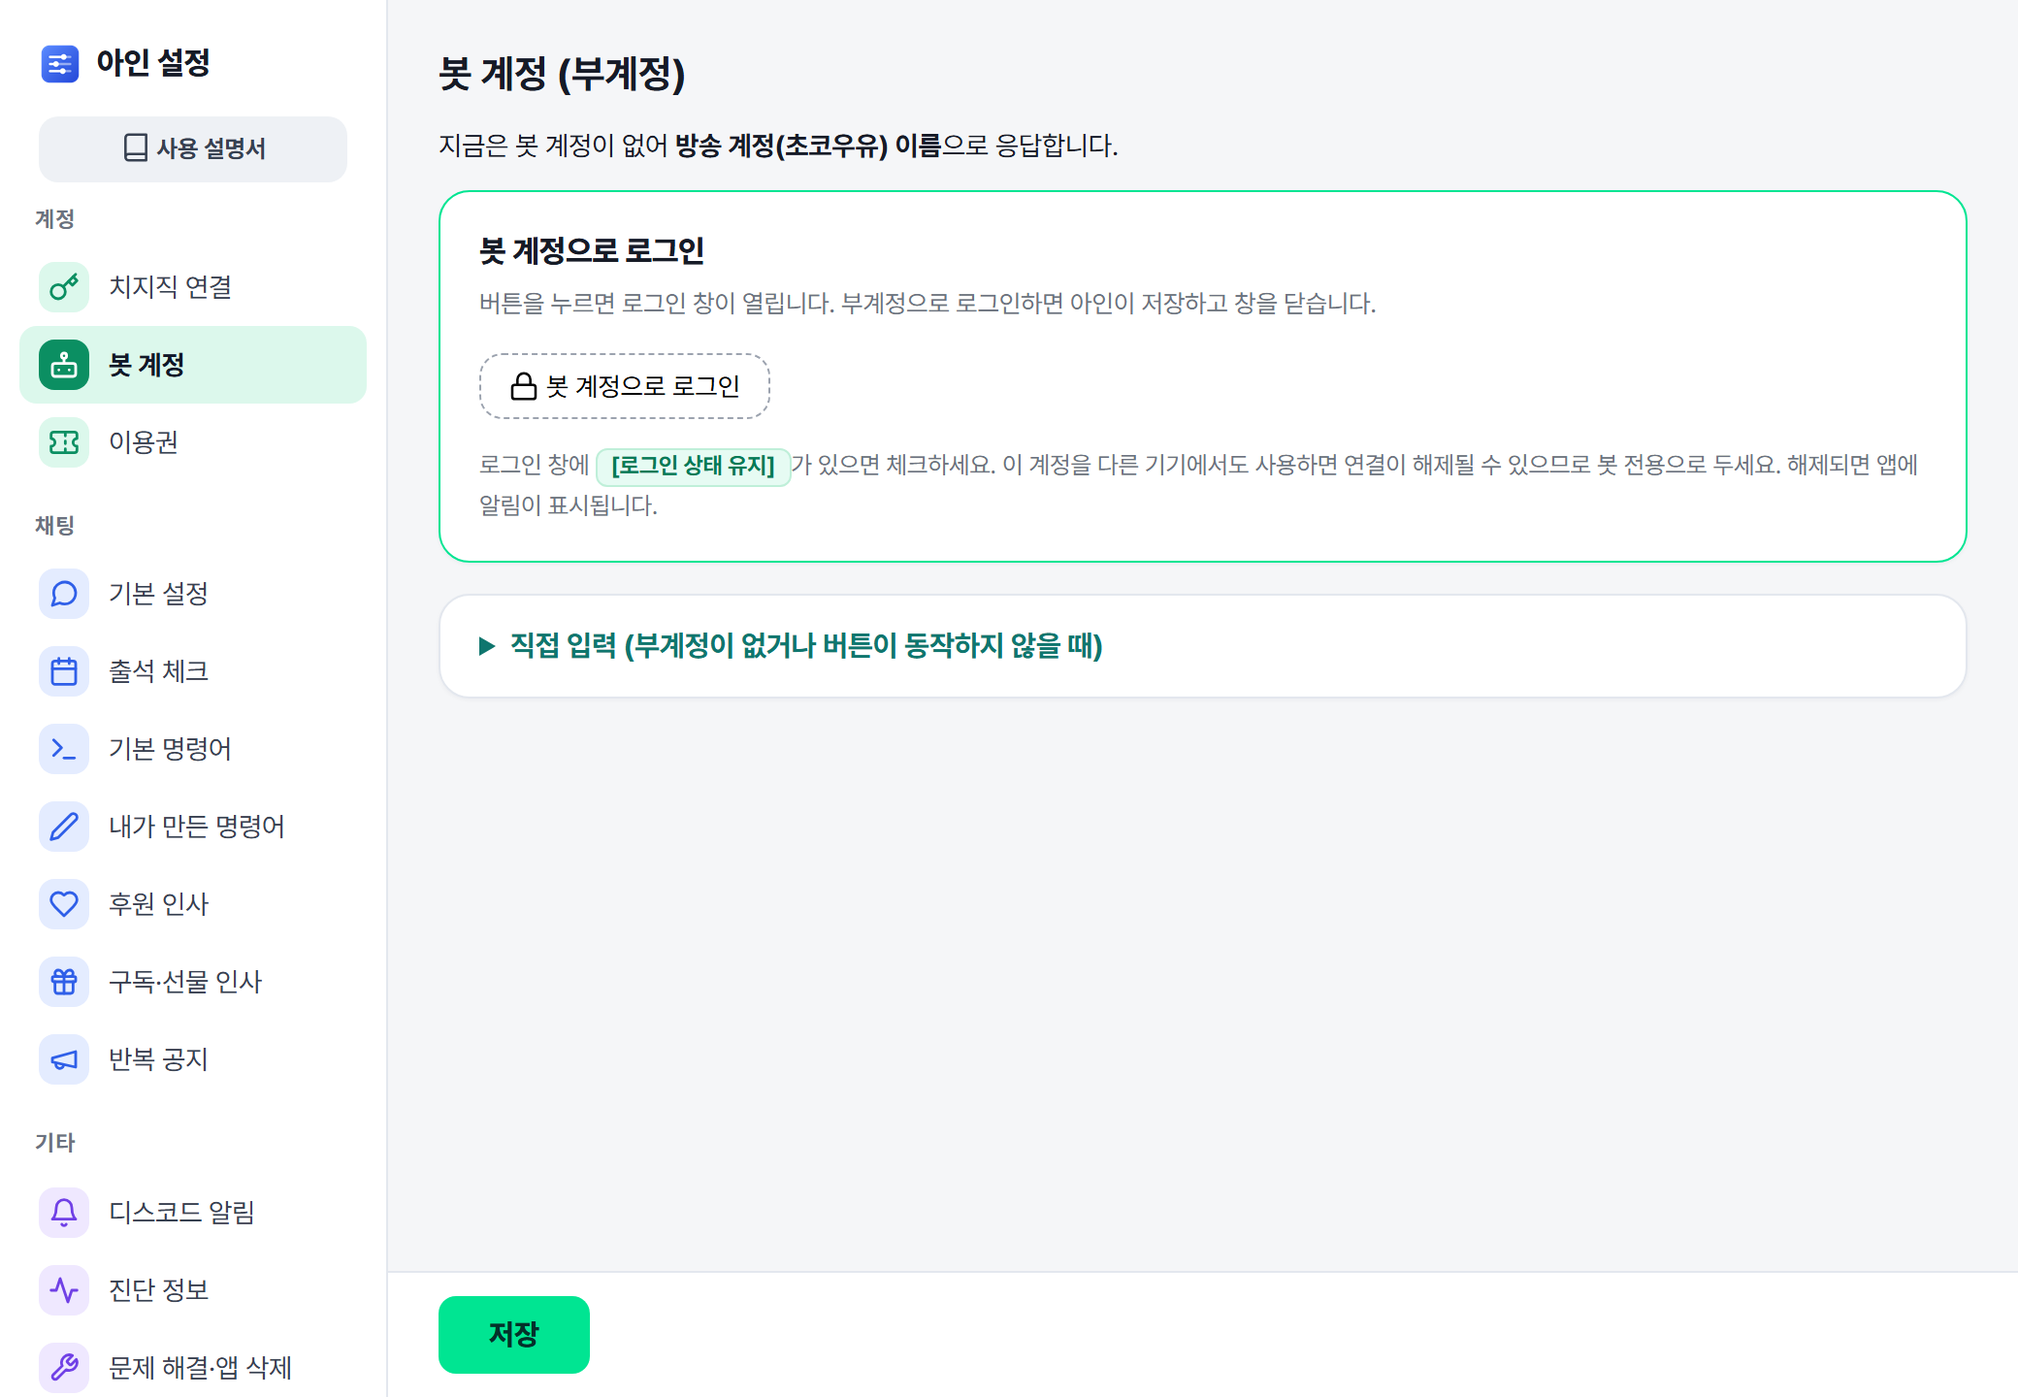
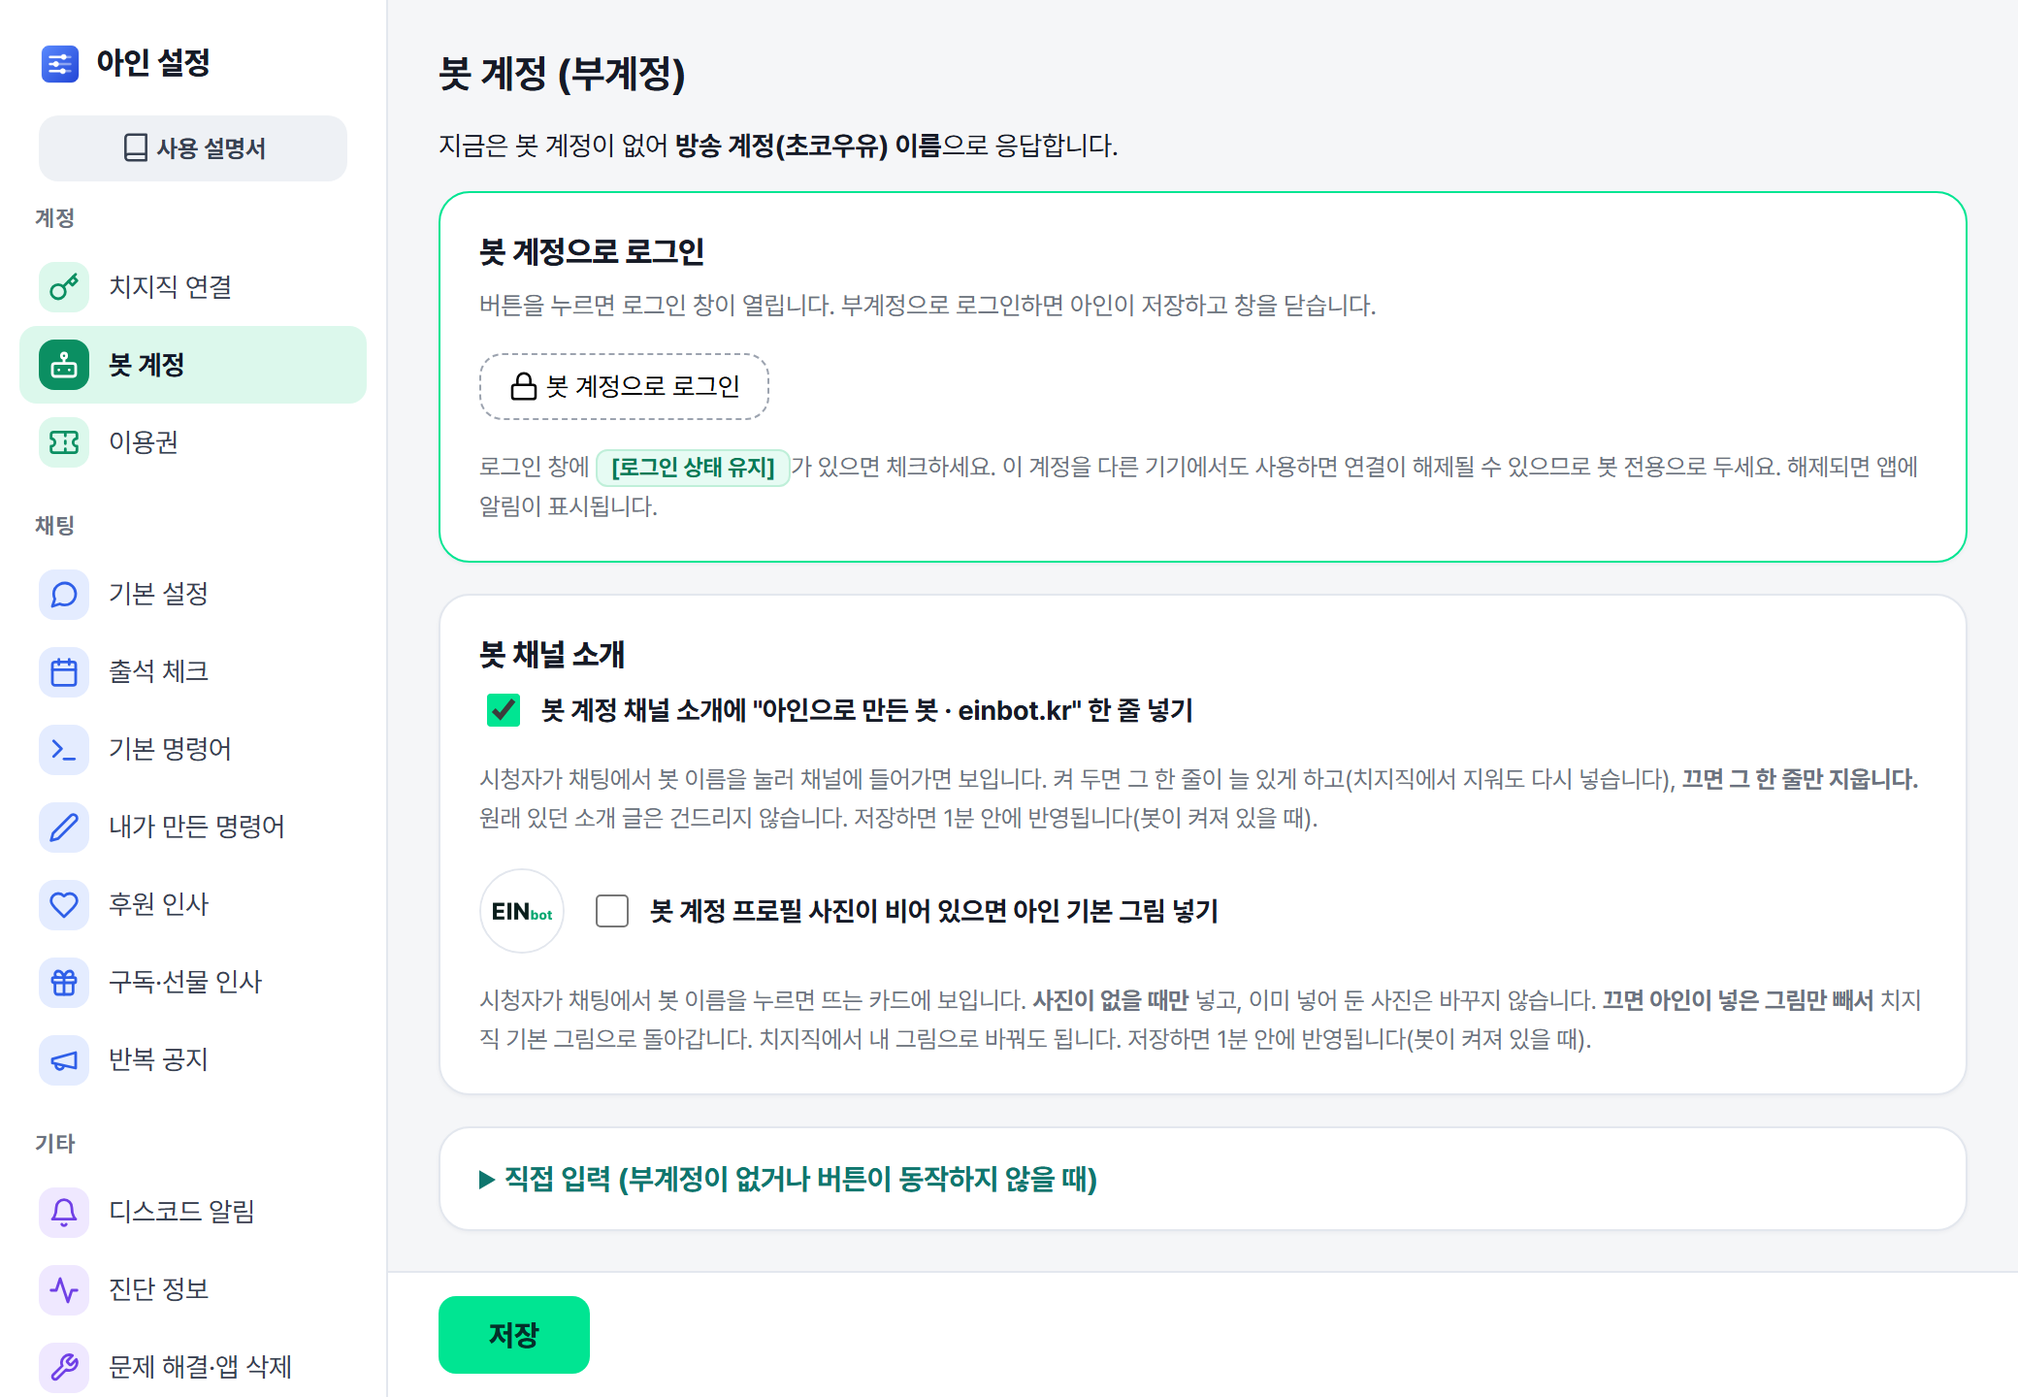
2.3.1 반영 준비: 봇 계정 기본 그림 — 설치 가이드, 문제 해결, 개인정보처리방침, 업데이트 기록
- 날짜는 게시 뒤에 채운다 (%게시일%, %ISO%)
- 설정 창 봇 계정 그림을 새 화면으로 교체, 기본 그림(img/bot-icon.png) 추가

diff --git a/privacy.html b/privacy.html
@@ -45,7 +45,7 @@
   </header>
 
   <h1>개인정보처리방침</h1>
-  <p class="updated">시행일: 2026년 8월 27일 · 2026년 9월 21일 개정(1항에 기능 창 설정, 3항에 글꼴 CDN·TITS 연동 항목 추가) · 2026년 9월 23일 개정(1항에 디스코드 웹훅 주소·연결 계정 이름, 3항에 디스코드 연결 항목 추가) · 2026년 9월 25일 개정(1항에 신청곡 대기열·재생 기록, 3항에 유튜브 항목 추가) · 2026년 9월 26일 개정(2항 최초 실행 신호에 초기 설정 진행 단계 추가, 2.1.1부터) · 2026년 9월 27일 개정(2항 진단 정보에 봇을 켜 둔 시간과 끈 까닭 추가, 3항에 Microsoft Store 항목 추가, 2.2부터) · 2026년 9월 27일 개정(1항에 봇 계정 채널 ID와 채널 소개 확인 기록, 3항 치지직에 봇 계정 채널 소개 한 줄 추가, 2.2.5부터) · 2026년 9월 27일 개정(2항에 치지직 로그인·갱신 때 운영자 서버를 거치는 것 추가, 요약·1항·3항 표현 고침, 2.3부터)</p>
+  <p class="updated">시행일: 2026년 8월 27일 · 2026년 9월 21일 개정(1항에 기능 창 설정, 3항에 글꼴 CDN·TITS 연동 항목 추가) · 2026년 9월 23일 개정(1항에 디스코드 웹훅 주소·연결 계정 이름, 3항에 디스코드 연결 항목 추가) · 2026년 9월 25일 개정(1항에 신청곡 대기열·재생 기록, 3항에 유튜브 항목 추가) · 2026년 9월 26일 개정(2항 최초 실행 신호에 초기 설정 진행 단계 추가, 2.1.1부터) · 2026년 9월 27일 개정(2항 진단 정보에 봇을 켜 둔 시간과 끈 까닭 추가, 3항에 Microsoft Store 항목 추가, 2.2부터) · 2026년 9월 27일 개정(1항에 봇 계정 채널 ID와 채널 소개 확인 기록, 3항 치지직에 봇 계정 채널 소개 한 줄 추가, 2.2.5부터) · 2026년 9월 27일 개정(2항에 치지직 로그인·갱신 때 운영자 서버를 거치는 것 추가, 요약·1항·3항 표현 고침, 2.3부터) · %게시일% 개정(1항에 봇 계정 기본 그림 확인 기록, 3항 치지직에 봇 계정 기본 그림 추가, 2.3.1부터)</p>
 
   <p>아인(이하 "프로그램")은 이용자의 개인정보를 소중히 다룹니다. 이 방침은 프로그램과
      운영자가 어떤 정보를 어떻게 처리하는지 설명합니다.</p>
@@ -73,6 +73,7 @@
     <li>설정 창에 "지금 연결된 계정"을 보여 주기 위한 방송 계정의 채널 이름·채널 ID와 봇 계정의 닉네임 (1.9.3)</li>
     <li>신청곡을 켠 경우 신청곡 대기열과 최근 재생 기록(유튜브 영상 ID·제목·채널 이름, 신청한 시청자의 닉네임·채널 ID, 신청 시각. 재생 기록은 최근 100곡까지) (2.1)</li>
     <li>봇 계정을 쓰는 경우 봇 계정의 채널 ID와, 채널 소개 한 줄을 마지막으로 확인한 시각·결과 (2.2.5)</li>
+    <li>봇 계정 기본 그림을 켠 경우 봇 계정의 채널 ID, 아인이 넣은 프로필 사진의 주소, 마지막으로 확인한 시각·결과 (2.3.1)</li>
   </ul>
   <p class="muted">이 정보들은 이용자가 프로그램을 삭제하면 함께 제거됩니다(이용권 관련 최소 기록은 예외 — 아래 4항 참고).</p>
 
@@ -101,7 +102,8 @@
   <h2>3. 제3자 서비스</h2>
   <ul>
     <li><strong>치지직(네이버)</strong>: 프로그램은 이용자를 대신해 치지직 공식 API에 연결하여 채팅·후원·구독 정보를 주고받습니다. 이는 이용자가 직접 로그인·동의한 범위 내에서 이루어집니다. 2.3부터는 운영자가 치지직 개발자 센터에 등록한 앱 "아인"으로 로그인하며, 동의 화면에 요청하는 권한이 표시됩니다(방송 스트림키는 요청하지 않습니다).
-        봇 계정(부계정)을 쓰는 경우에는 그 계정으로 채팅을 보내고, 그 계정의 치지직 채널 소개에 "아인으로 만든 봇 · einbot.kr" 한 줄을 넣습니다. 원래 소개 글과 닉네임·프로필 사진 등 다른 채널 설정은 바꾸지 않고, 방송 계정의 채널 소개는 건드리지 않습니다. 설정 → 봇 계정에서 끄면 그 한 줄만 지웁니다. (2.2.5)</li>
+        봇 계정(부계정)을 쓰는 경우에는 그 계정으로 채팅을 보내고, 그 계정의 치지직 채널 소개에 "아인으로 만든 봇 · einbot.kr" 한 줄을 넣습니다. 원래 소개 글과 닉네임 등 다른 채널 설정은 바꾸지 않고, 방송 계정의 채널 소개는 건드리지 않습니다. 설정 → 봇 계정에서 끄면 그 한 줄만 지웁니다. (2.2.5)
+        2.3.1부터는 봇 계정을 새로 연결하면, 그 계정에 프로필 사진이 없을 때 아인 기본 그림 파일을 치지직에 올려 프로필 사진으로 넣습니다. 이미 있는 사진은 바꾸지 않고, 방송 계정의 사진은 건드리지 않습니다. 설정 → 봇 계정에서 끄면 아인이 넣은 그림만 뺍니다. 2.3.0까지 봇 계정을 연결해 쓰던 경우에는 직접 켜야 동작합니다.</li>
     <li><strong>Cloudflare</strong>: 이용권 확인 서버와 웹사이트 운영에 사용됩니다.</li>
     <li><strong>Microsoft Store</strong>: 스토어판 아인은 새 버전을 확인하고 설치할 때 Windows의 Microsoft Store 앱 업데이트 기능과 스토어 공개 앱 정보(displaycatalog.mp.microsoft.com)를 이용합니다. 이 과정은 Windows와 Microsoft 계정의 개인정보처리방침을 따르며, 아인이 따로 덧붙여 보내는 정보는 없습니다. (2.2.3)</li>
     <li><strong>네이버 커머스(스마트스토어)</strong>: 주문번호로 결제 여부를 확인할 때 이용됩니다.</li>

diff --git a/guide/install/index.html b/guide/install/index.html
@@ -38,7 +38,7 @@
       "description": "Microsoft Store 설치부터 방송 계정 로그인, 봇 이름 설정, 봇 시작까지 치지직 채팅봇 아인을 붙이는 순서.",
       "inLanguage": "ko-KR",
       "datePublished": "2026-09-06",
-      "dateModified": "2026-09-27",
+      "dateModified": "%ISO%",
       "mainEntityOfPage": "https://einbot.kr/guide/install/",
       "image": "https://einbot.kr/og.png?v=2",
       "author": { "@id": "https://einbot.kr/#org" },
@@ -152,7 +152,7 @@
       <h1>치지직 채팅봇 설치 방법 — 아인 5분 설치 가이드</h1>
       <p class="lead">치지직 채팅봇 아인을 방송에 붙이는 순서입니다. 파일을 내려받거나 압축을 풀 일은 없고,
         방송하는 계정으로 한 번 로그인하면 됩니다. 2.3부터 치지직 개발자 센터에서 API 키를 발급받는 단계가 없어졌습니다.</p>
-      <p class="meta">기준 버전 2.3.0 · 2026년 9월 27일 갱신 · Windows 10·11</p>
+      <p class="meta">기준 버전 2.3.1 · %게시일% 갱신 · Windows 10·11</p>
 
       <div class="toc">
         <b>차례</b>
@@ -213,9 +213,12 @@
             <img src="/img/chzzk-profile-edit.png" alt="치지직 프로필 편집 창 — 닉네임 칸과 30일 변경 제한 안내" width="352" loading="lazy">
           </li>
           <li>연결은 <b>[봇 계정으로 로그인]</b> 버튼 하나입니다 (1.8). 초기 설정 2단계나 [설정] → 봇 계정에서 누르면 로그인 창이 열리고, 거기서 <b>부계정으로</b> 로그인하면 아인이 알아서 저장하고 창을 닫습니다. 예전처럼 브라우저 개발자 도구에서 쿠키를 복사할 필요가 없습니다. 봇이 돌아가는 동안 로그인이 자동으로 연장되어 매번 다시 하지 않아도 됩니다.
-            <img src="/img/bot-account.png?v=210925" alt="아인 설정 창의 봇 계정 화면 — [봇 계정으로 로그인] 버튼과 부계정 안내" width="1040" height="720" loading="lazy">
+            <img src="/img/bot-account.png?v=231" alt="아인 설정 창의 봇 계정 화면 — [봇 계정으로 로그인] 버튼, 봇 채널 소개 한 줄과 기본 그림 칸" width="1040" height="720" loading="lazy">
           </li>
           <li>연결하면 아인이 부계정의 치지직 채널 소개에 <b>"아인으로 만든 봇 · einbot.kr"</b> 한 줄을 넣습니다 (2.2.5). 시청자가 봇 이름을 눌러 봇 채널에 들어왔을 때 어떤 봇인지 알 수 있게 하려는 것입니다. 원래 소개 글은 그대로 두고, 원하지 않으면 설정 → 봇 계정 → 봇 채널 소개에서 끄면 그 한 줄만 지웁니다.</li>
+          <li>부계정을 새로 연결하면, 그 계정에 <b>프로필 사진이 없을 때</b> 아인 기본 그림을 넣습니다 (2.3.1). 시청자가 채팅에서 봇 이름을 누르면 뜨는 카드에 보이는 사진입니다. 이미 넣어 둔 사진은 바꾸지 않습니다. 봇에 내 그림을 쓰려면 부계정으로 치지직에 로그인해 프로필 사진을 바꾸면 되고, 아인 그림을 빼려면 설정 → 봇 계정 → 봇 채널 소개에서 끕니다. 2.3.0까지 이미 부계정을 연결해 쓰던 분은 바뀌지 않습니다.
+            <img src="/img/bot-icon.png" alt="아인 기본 그림 — 흰 바탕에 EINbot 글자" width="96" height="96" loading="lazy" style="border-radius:50%;border:1px solid var(--line)">
+          </li>
         </ul>
         <div class="warn">
           <p><b>부계정은 봇 전용으로 두세요.</b> 폰 등 다른 기기에서 같은 계정으로 로그인하면 봇 연결이 끊겨 다시 넣어야 할 수 있습니다.</p>

diff --git a/guide/troubleshooting/index.html b/guide/troubleshooting/index.html
@@ -45,7 +45,7 @@
       "description": "아인이 반응이 없거나, 권한이 빠졌다고 나오거나, 봇 계정 연결이 끊겼을 때 증상별 원인과 해결 순서.",
       "inLanguage": "ko-KR",
       "datePublished": "2026-09-09",
-      "dateModified": "2026-09-27",
+      "dateModified": "%ISO%",
       "mainEntityOfPage": "https://einbot.kr/guide/troubleshooting/",
       "image": "https://einbot.kr/og.png?v=2",
       "author": { "@id": "https://einbot.kr/#org" },
@@ -218,7 +218,7 @@
       <h1>치지직 채팅봇이 안 될 때 확인할 것</h1>
       <p class="lead">아인을 쓰다가 막히는 상황을 증상별로 모았습니다. 실제로 사용자들이 겪은 일과 그 원인을 기준으로 쓰며,
         대부분은 설정 화면에서 한두 번 클릭으로 해결됩니다. 해당 증상을 차례에서 골라 그 부분만 읽으세요.</p>
-      <p class="meta">기준 버전 2.3.0 · 2026년 9월 27일 갱신</p>
+      <p class="meta">기준 버전 2.3.1 · %게시일% 갱신</p>
 
       <div class="toc">
         <b>차례</b>
@@ -228,6 +228,7 @@
           <li><a href="#sub">후원 인사는 되는데 구독 인사만 안 나가요</a></li>
           <li><a href="#cookie">"봇 계정 연결 끊김" 알림이 떠요</a></li>
           <li><a href="#myname">봇 이름이 아니라 내 이름으로 대답해요</a></li>
+          <li><a href="#boticon">봇 계정 프로필 사진이 아인 그림으로 바뀌었어요</a></li>
           <li><a href="#gift">구독권 선물 인사가 안 나가요</a></li>
           <li><a href="#settings">설정을 바꿨는데 반영이 안 돼요</a></li>
           <li><a href="#wizard">초기 설정 화면이 다시 열려요</a></li>
@@ -308,6 +309,14 @@
         <li><b>방송 전.</b> 치지직 채팅 서버는 방송 중에만 열리므로, 방송 전에 봇을 켜면 로그에 아래처럼 나오는 것이 정상입니다. 방송이 시작되면 자동으로 연결됩니다.
           <p class="log">[봇 계정] 연결 실패 (방송 전이면 정상): …</p></li>
         <li><b>방송 중에도 계속 내 이름으로 나옴.</b> 부계정 로그인이 풀린 것입니다. <a href="#cookie">위 항목</a>대로 로그인 정보를 다시 넣으세요. 설정에 부계정을 넣은 적이 없다면 <a href="/guide/install/#step5">설치 가이드 5단계</a>부터 하면 됩니다.</li>
+      </ul>
+
+      <h2 id="boticon">봇 계정 프로필 사진이 아인 그림으로 바뀌었어요</h2>
+      <p class="sym">증상: 봇 계정(부계정)의 치지직 프로필 사진이 "EINbot" 글자가 있는 흰 그림으로 되어 있습니다.</p>
+      <p>2.3.1부터, 부계정을 새로 연결하면 그 계정에 프로필 사진이 없을 때 아인이 기본 그림을 넣습니다. 초기 설정 마지막 화면에서 알려 드린 그 그림입니다. 방송 계정의 사진은 건드리지 않습니다.</p>
+      <ul>
+        <li><b>내 그림을 쓰고 싶으면.</b> 부계정으로 치지직에 로그인해 프로필 사진을 바꾸세요. 아인은 직접 넣은 사진을 다시 바꾸지 않습니다.</li>
+        <li><b>그림을 빼고 싶으면.</b> 설정 → 봇 계정 → 봇 채널 소개에서 "아인 기본 그림 넣기"를 끄고 저장하세요. 봇이 켜져 있으면 1분 안에 치지직 기본 그림으로 돌아갑니다.</li>
       </ul>
 
       <h2 id="gift">구독권 선물 인사가 안 나가요</h2>

diff --git a/updates/index.html b/updates/index.html
@@ -39,7 +39,7 @@
   "inLanguage": "ko-KR",
   "isPartOf": { "@id": "https://einbot.kr/#website" },
   "about": { "@id": "https://einbot.kr/#app" },
-  "dateModified": "2026-09-27",
+  "dateModified": "%ISO%",
   "breadcrumb": {
     "@type": "BreadcrumbList",
     "itemListElement": [
@@ -88,7 +88,19 @@
       <p class="lead">버전별로 무엇이 바뀌었는지 날짜와 함께 적습니다. 최신이 맨 위입니다.</p>
       <p class="how">2.2.3부터는 새 버전이 나오면 아인이 방송하지 않는 동안 스스로 설치하고 잠깐 뒤 다시 켜집니다. 켜져 있던 봇도 다시 켭니다. 2.1.1 이하는 Microsoft Store가 아인을 완전히 끈 뒤에 설치하니, 알림 영역에서 [앱 종료]한 다음 Microsoft Store 앱 → 라이브러리 → [업데이트 받기]를 누르세요. 고치고 싶은 점이나 필요한 기능은 <a href="/discord/">디스코드 문의 서버</a>나 <a href="mailto:einbot.help@gmail.com">einbot.help@gmail.com</a>으로 알려 주시면 됩니다.</p>
 
-      <section class="ver latest" id="v2-3-0">
+      <section class="ver latest" id="v2-3-1">
+        <h2>2.3.1 <span class="date">%게시일%</span></h2>
+        <p class="pkg">스토어 버전 2.3.1.0</p>
+        <ul>
+          <li><b>봇 계정 기본 그림.</b> 봇 계정(부계정)을 새로 연결하면, 그 계정에 프로필 사진이 없을 때 아인 기본 그림을 넣습니다. 시청자가 채팅에서 봇 이름을 눌렀을 때 뜨는 카드에 보이는 사진입니다. 이미 넣어 둔 사진은 바꾸지 않고, 치지직에서 내 그림으로 바꿔도 됩니다. 설정 → 봇 계정 → 봇 채널 소개에서 끄면 아인이 넣은 그림만 빼서 치지직 기본 그림으로 돌아갑니다. 방송 계정의 사진은 건드리지 않습니다. <a href="/guide/install/#step5">설치 가이드</a> · <a href="/privacy.html">개인정보처리방침</a></li>
+          <li><b>이미 봇 계정을 쓰던 분은 그대로.</b> 업데이트만으로는 사진이 바뀌지 않습니다. 넣고 싶으면 설정 → 봇 계정 → 봇 채널 소개에서 켜면 됩니다.</li>
+          <li>초기 설정 마지막 화면에서 봇 계정에 무엇이 들어가는지(기본 그림, 채널 소개 한 줄) 알려 줍니다.</li>
+          <li><b>문의는 디스코드에서도.</b> 설정 → 문제 해결 화면에 <a href="/discord/">디스코드 문의 서버</a>로 가는 길을 넣었습니다. 로그 파일과 주문번호는 지금처럼 메일로 보내 주세요.</li>
+          <li>설정 화면의 메일 주소를 누르면 메일 프로그램이 열리는 대신 주소가 복사됩니다.</li>
+        </ul>
+      </section>
+
+      <section class="ver" id="v2-3-0">
         <h2>2.3.0 <span class="date">2026년 9월 27일</span></h2>
         <p class="pkg">스토어 버전 2.3.0.0</p>
         <ul>
